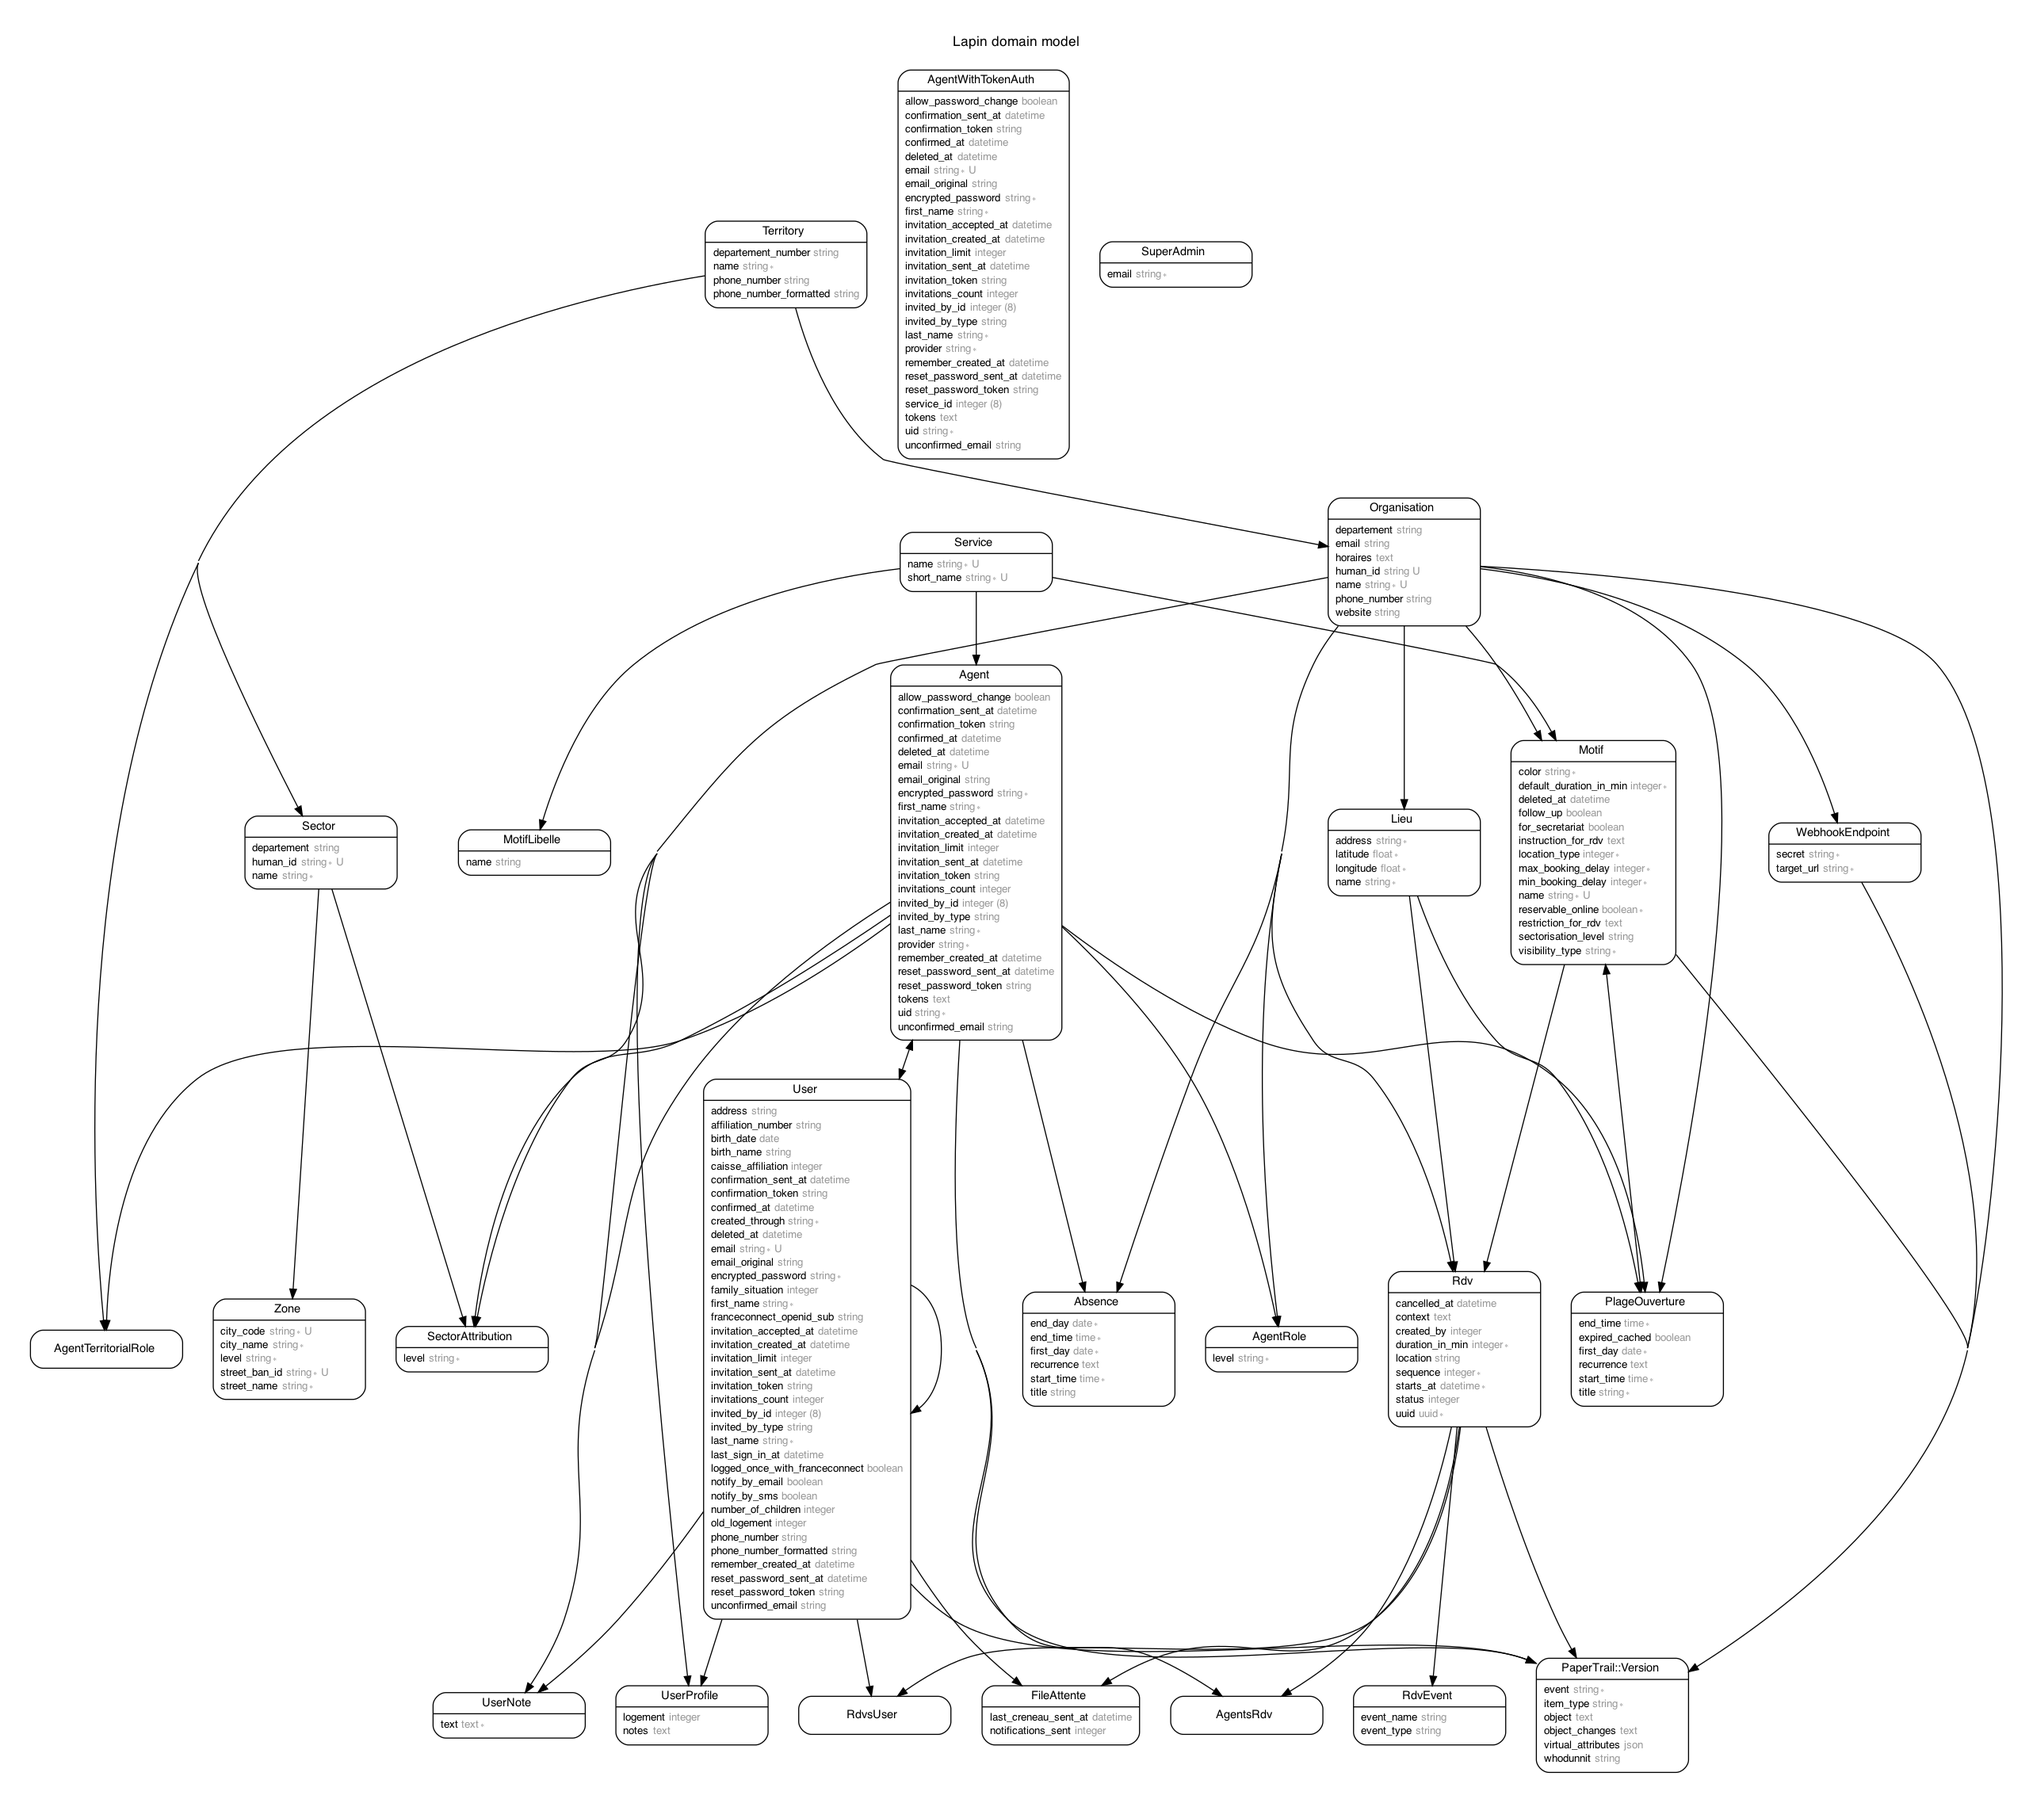
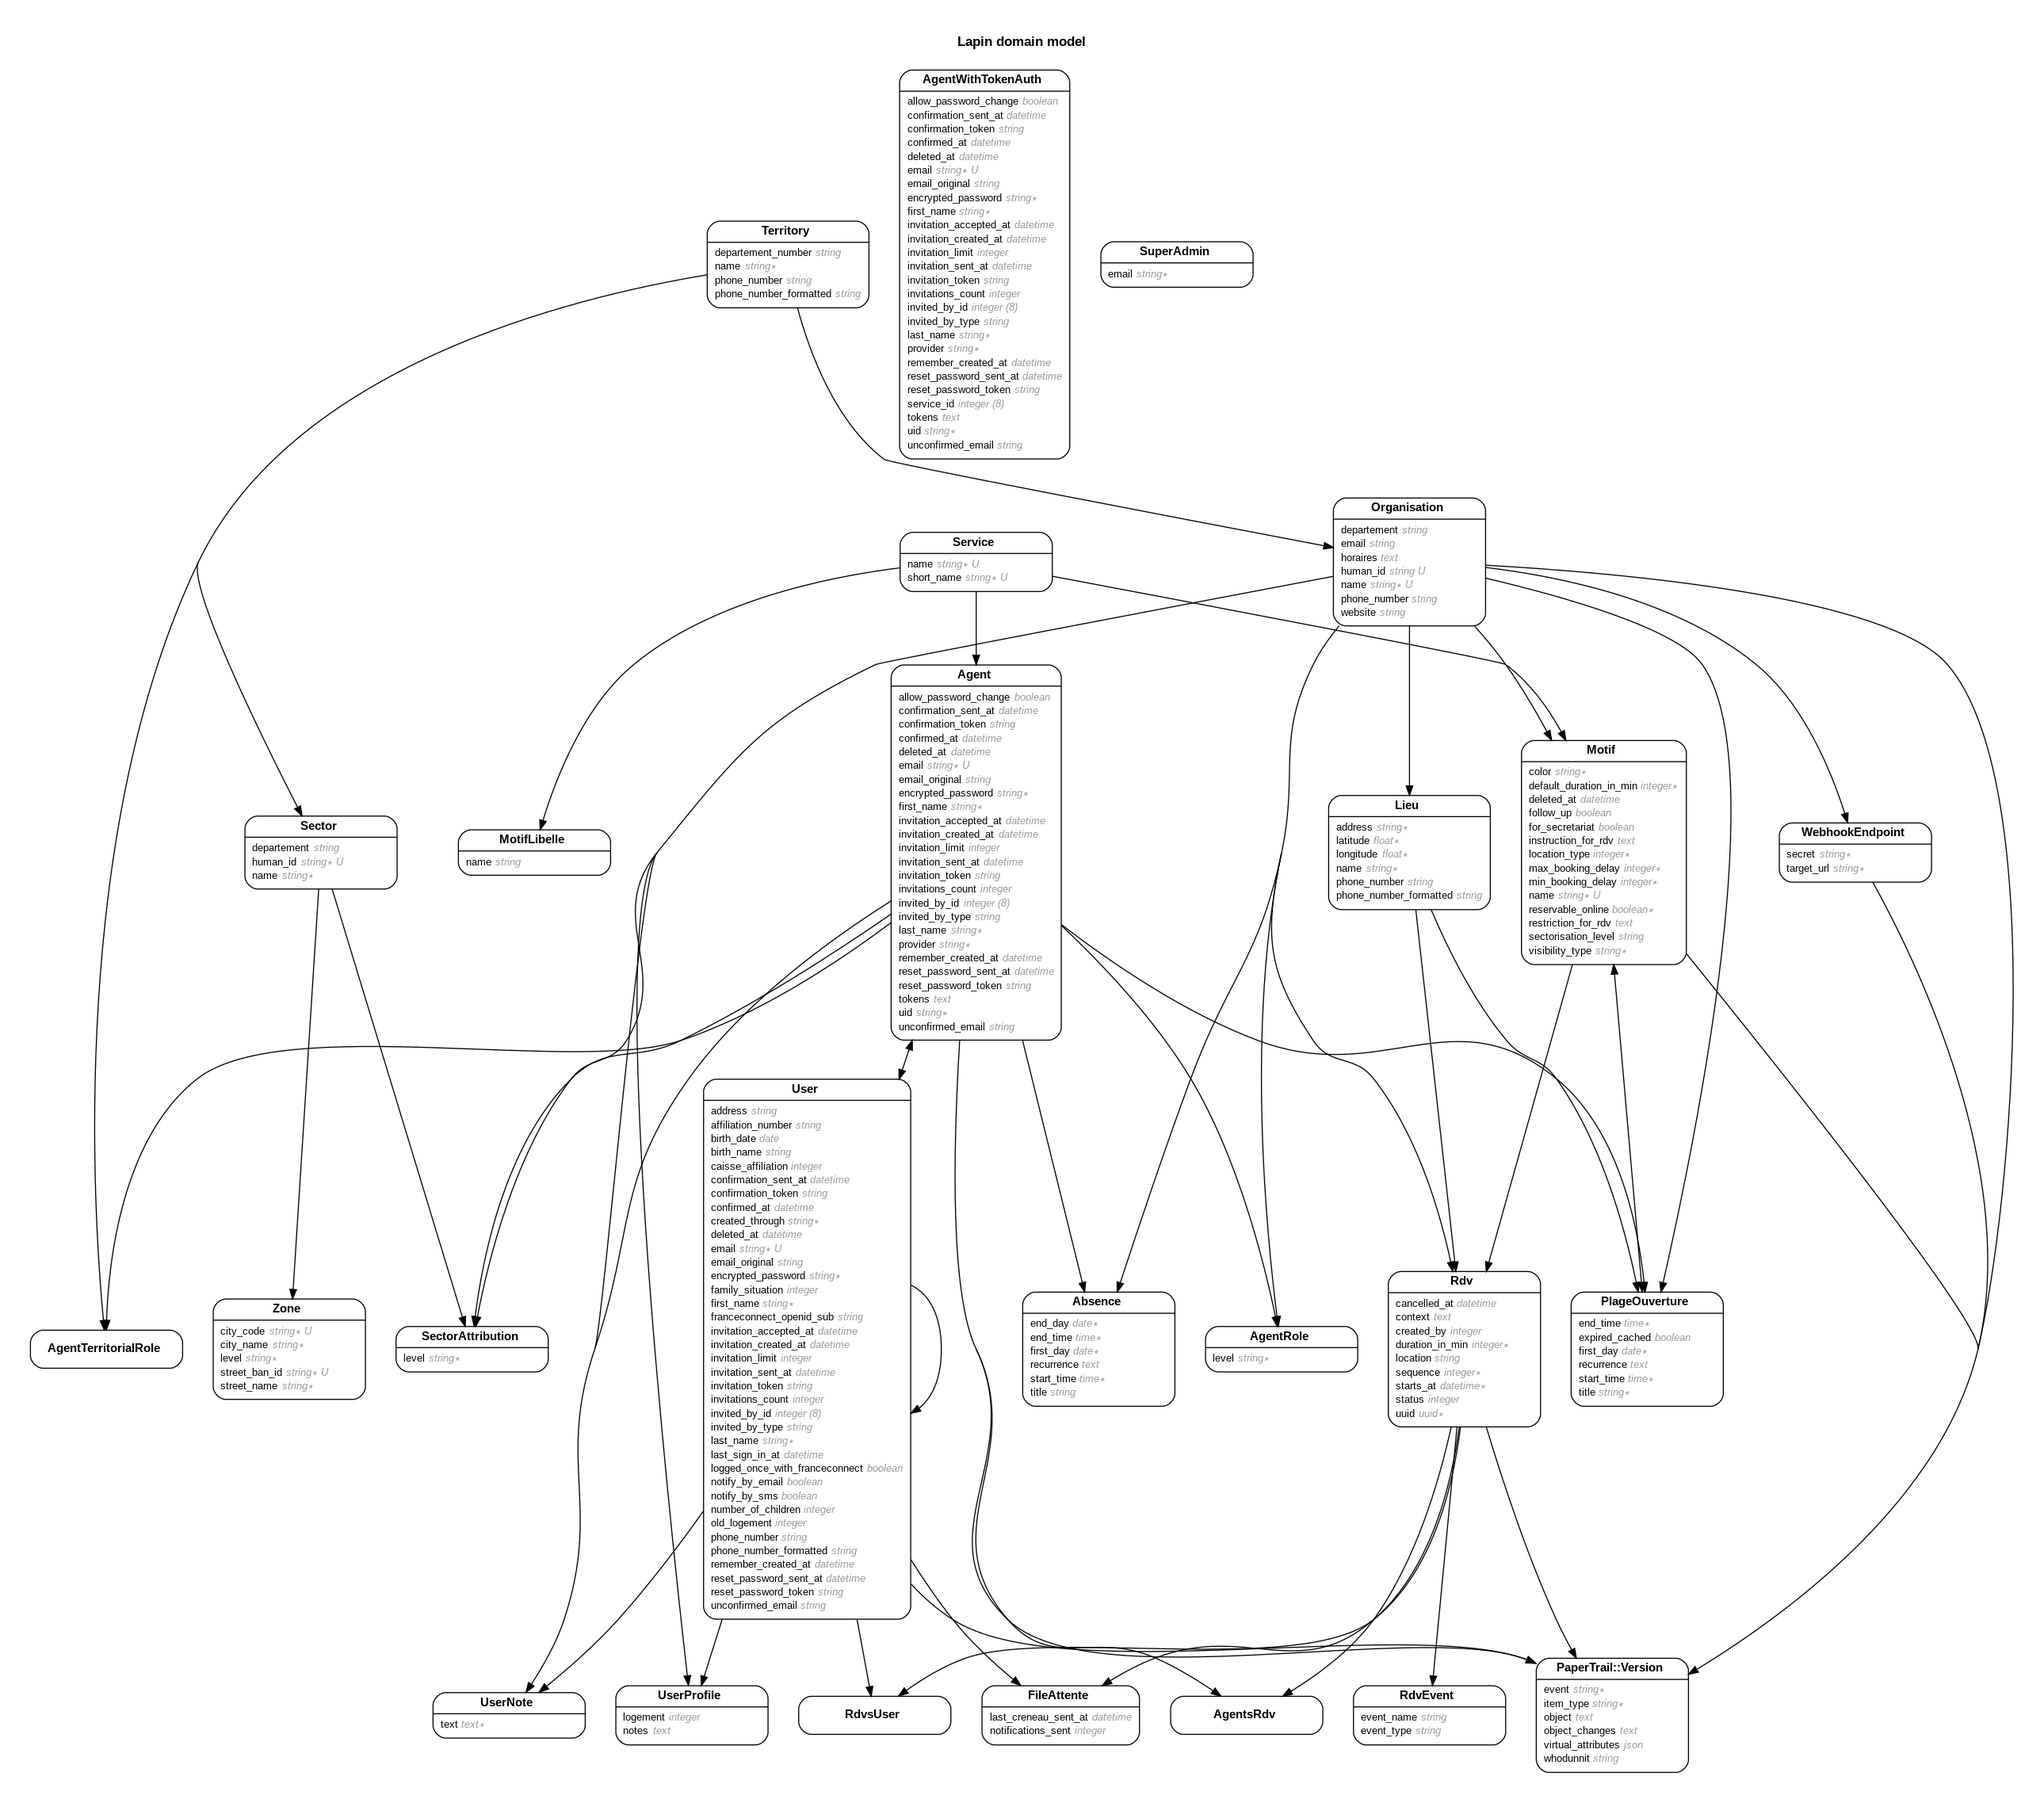
Bump y18n from 4.0.0 to 4.0.1 (#1294)
Bumps [y18n](https://github.com/yargs/y18n) from 4.0.0 to 4.0.1.
- [Release notes](https://github.com/yargs/y18n/releases)
- [Changelog](https://github.com/yargs/y18n/blob/master/CHANGELOG.md)
- [Commits](https://github.com/yargs/y18n/commits)

diff --git a/spec/features/agents/admin_can_configure_the_organisation_spec.rb b/spec/features/agents/admin_can_configure_the_organisation_spec.rb
@@ -11,7 +11,6 @@ describe "Admin can configure the organisation" do
   let!(:user) { create(:user, organisations: [organisation]) }
   let!(:lieu) { create(:lieu, organisation: organisation) }
   let!(:secretariat) { create(:service, :secretariat) }
-  let(:le_nouveau_lieu) { build(:lieu, organisation: organisation) }
   let(:le_nouveau_motif) { build(:motif, name: "Motif 2", service: pmi, organisation: organisation) }
   let(:la_nouvelle_org) { build(:organisation) }
 
@@ -24,13 +23,21 @@ describe "Admin can configure the organisation" do
     click_link "Vos lieux"
     expect_page_title("Vos lieux de consultation")
 
-    click_link lieu.name
+    within("#lieu_#{lieu.id}") do
+      click_link "Modifier"
+    end
+
     expect_page_title("Modifier le lieu")
     fill_in "Nom", with: "Le nouveau lieu"
+    fill_in "Téléphone", with: "01 02 03 04 05"
     click_button("Modifier")
 
     expect_page_title("Vos lieux de consultation")
-    click_link "Le nouveau lieu"
+
+    nouveau_lieu = Lieu.find_by(name: "Le nouveau lieu")
+    within("#lieu_#{nouveau_lieu.id}") do
+      click_link "Modifier"
+    end
 
     click_link("Supprimer")
 
@@ -40,13 +47,17 @@ describe "Admin can configure the organisation" do
     click_link "Ajouter un lieu", match: :first
 
     expect_page_title("Nouveau lieu")
-    fill_in "Nom", with: le_nouveau_lieu.name
-    fill_in "Adresse", with: le_nouveau_lieu.address
-    first("input#lieu_latitude", visible: false).set(32)
-    first("input#lieu_longitude", visible: false).set(2)
+    fill_in "Nom", with: "Un autre nouveau lieu"
+    fill_in "Adresse", with: "3 Place de la Gare, Strasbourg, 67000, 67, Bas-Rhin, Grand Est"
+    first("input#lieu_latitude", visible: false).set(48.583844)
+    first("input#lieu_longitude", visible: false).set(7.735253)
     click_button "Créer"
     expect_page_title("Vos lieux de consultation")
-    click_link le_nouveau_lieu.name
+
+    le_nouveau_lieu = Lieu.find_by(name: "Un autre nouveau lieu")
+    within("#lieu_#{le_nouveau_lieu.id}") do
+      click_link "Modifier"
+    end
   end
 
   scenario "CRUD on agents" do

diff --git a/db/schema.rb b/db/schema.rb
@@ -10,7 +10,7 @@
 #
 # It's strongly recommended that you check this file into your version control system.
 
-ActiveRecord::Schema.define(version: 2021_03_01_135256) do
+ActiveRecord::Schema.define(version: 2021_03_29_100143) do
 
   # These are extensions that must be enabled in order to support this database
   enable_extension "plpgsql"
@@ -168,6 +168,8 @@ ActiveRecord::Schema.define(version: 2021_03_01_135256) do
     t.string "address"
     t.float "latitude"
     t.float "longitude"
+    t.string "phone_number"
+    t.string "phone_number_formatted"
     t.index ["organisation_id"], name: "index_lieux_on_organisation_id"
   end
 

diff --git a/app/controllers/admin/lieux_controller.rb b/app/controllers/admin/lieux_controller.rb
@@ -52,6 +52,6 @@ class Admin::LieuxController < AgentAuthController
   private
 
   def lieu_params
-    params.require(:lieu).permit(:name, :address, :horaires, :telephone, :latitude, :longitude)
+    params.require(:lieu).permit(:name, :address, :phone_number, :latitude, :longitude)
   end
 end

diff --git a/db/migrate/20210329100143_add_phone_number_to_lieux.rb b/db/migrate/20210329100143_add_phone_number_to_lieux.rb
@@ -1,0 +1,6 @@
+class AddPhoneNumberToLieux < ActiveRecord::Migration[6.0]
+  def change
+    add_column :lieux, :phone_number, :string
+    add_column :lieux, :phone_number_formatted, :string
+  end
+end

diff --git a/app/models/lieu.rb b/app/models/lieu.rb
@@ -1,4 +1,6 @@
 class Lieu < ApplicationRecord
+  include HasPhoneNumberConcern
+
   belongs_to :organisation
   has_many :plage_ouvertures, dependent: :restrict_with_error
   has_many :rdvs
